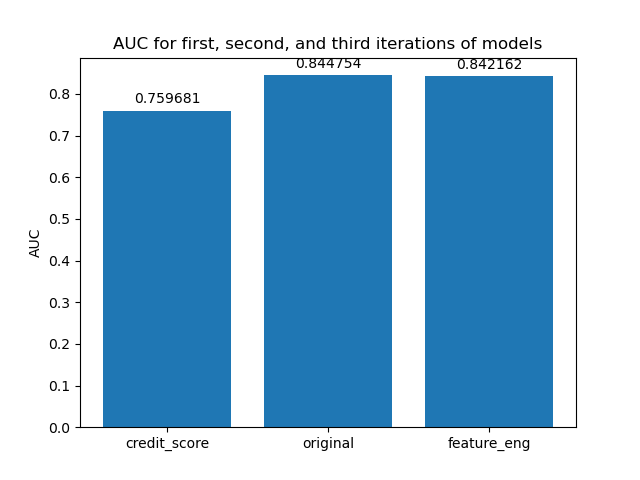
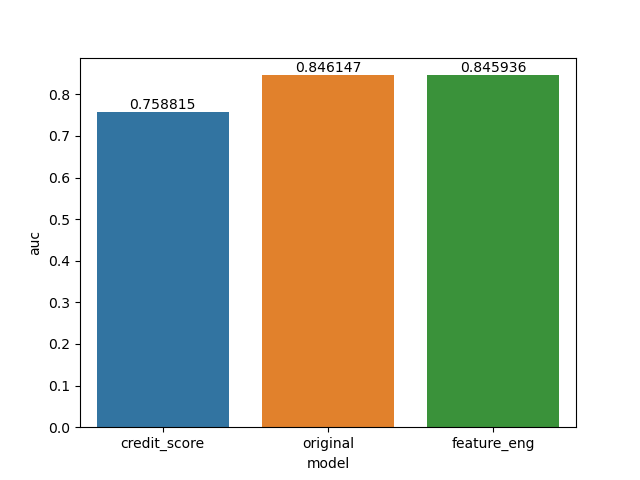
changed time to float not str; changed pngs to run on seaborn not plt; change fe so eng features are added not replace df

diff --git a/src/risknet/proc/fe.py b/src/risknet/proc/fe.py
@@ -29,8 +29,7 @@ def fe(df, fm_root):
     #This returns feature_matrix (new features generated off of df) and defines features
     feature_matrix, feature_defs = ft.dfs(entityset=es, 
                                           target_dataframe_name="data",
-                                          ignore_columns={"data": ["flag", "default"]},
-                                          max_depth=3)
+                                          ignore_columns={"data": ["flag", "default"]})
                                           #Ignoring flag (for train/test/valid), "default" (for y classification)
 
     #Log feature definitions
@@ -38,9 +37,9 @@ def fe(df, fm_root):
     logger.info(feature_defs)
 
     #Combine new features + old feature table (df)
-    #combo = feature_matrix.merge(
-    #        df, on="loan_sequence_number", how="inner")
-    combo = feature_matrix
+    combo = feature_matrix.merge(
+            df, on="loan_sequence_number", how="inner")
+    #combo = feature_matrix
     
     #Do not want to create new features based on pred
     #TODO: can we keep undefaulted_progress x and y? Experiment

diff --git a/src/risknet/run/main.py b/src/risknet/run/main.py
@@ -65,6 +65,17 @@ auc_bar.bar_label(auc_bar.containers[0], fontsize=10)
 plt.savefig('graphs/aucs.png')
 plt.show()
 
+pr_bar = sns.barplot(data=models, x='model', y='prs')
+pr_bar.bar_label(pr_bar.containers[0], fontsize=10)
+plt.savefig('graphs/prs.png')
+plt.show()
+
+time_bar = sns.barplot(data=models, x='model', y='times')
+time_bar.bar_label(time_bar.containers[0], fontsize=10)
+plt.savefig('graphs/time.png')
+plt.show()
+
+
 '''
 #fig, ax = plt.subplots()
 #rects = ax.bar(order, aucs)

diff --git a/src/risknet/run/model.py b/src/risknet/run/model.py
@@ -158,7 +158,7 @@ class XGBCVTrain(object):
 
         logger.info("Total time: " + str(round((total / 60), 2)) + "minutes")
 
-        self.time = str(round(total / 60, 2))
+        self.time = round(total / 60, 2)
 
     def predict(self, scoring_data: DataFrame):
 
